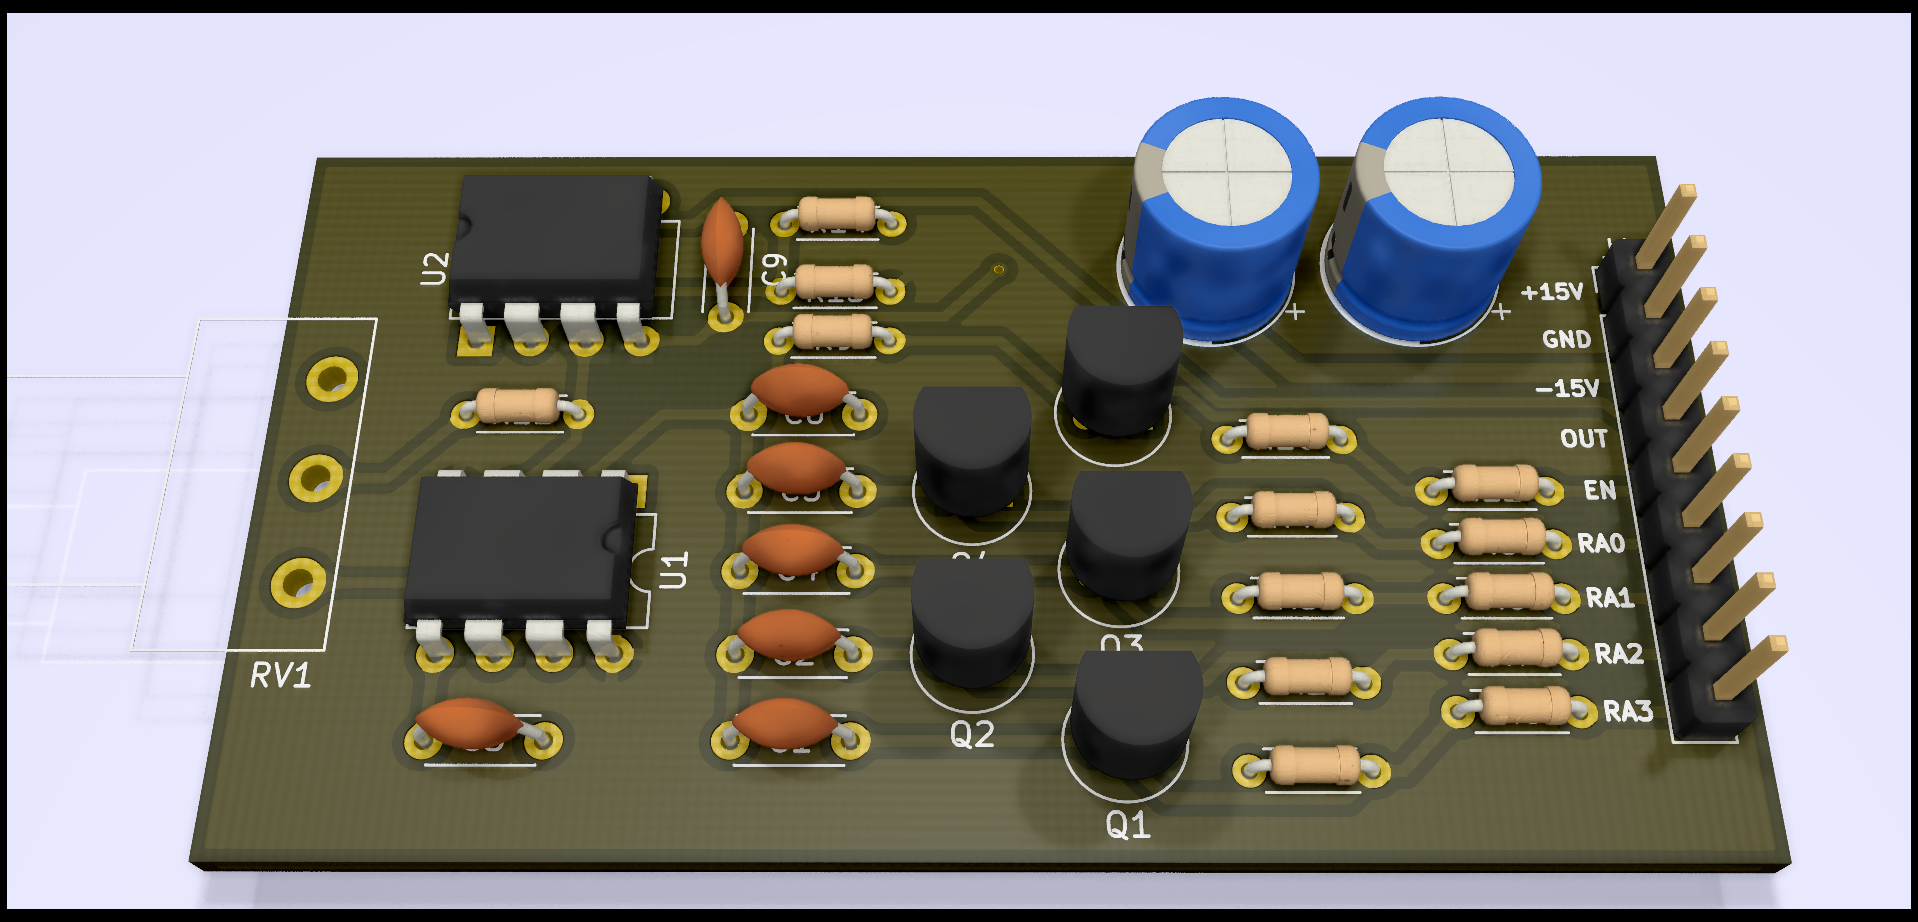
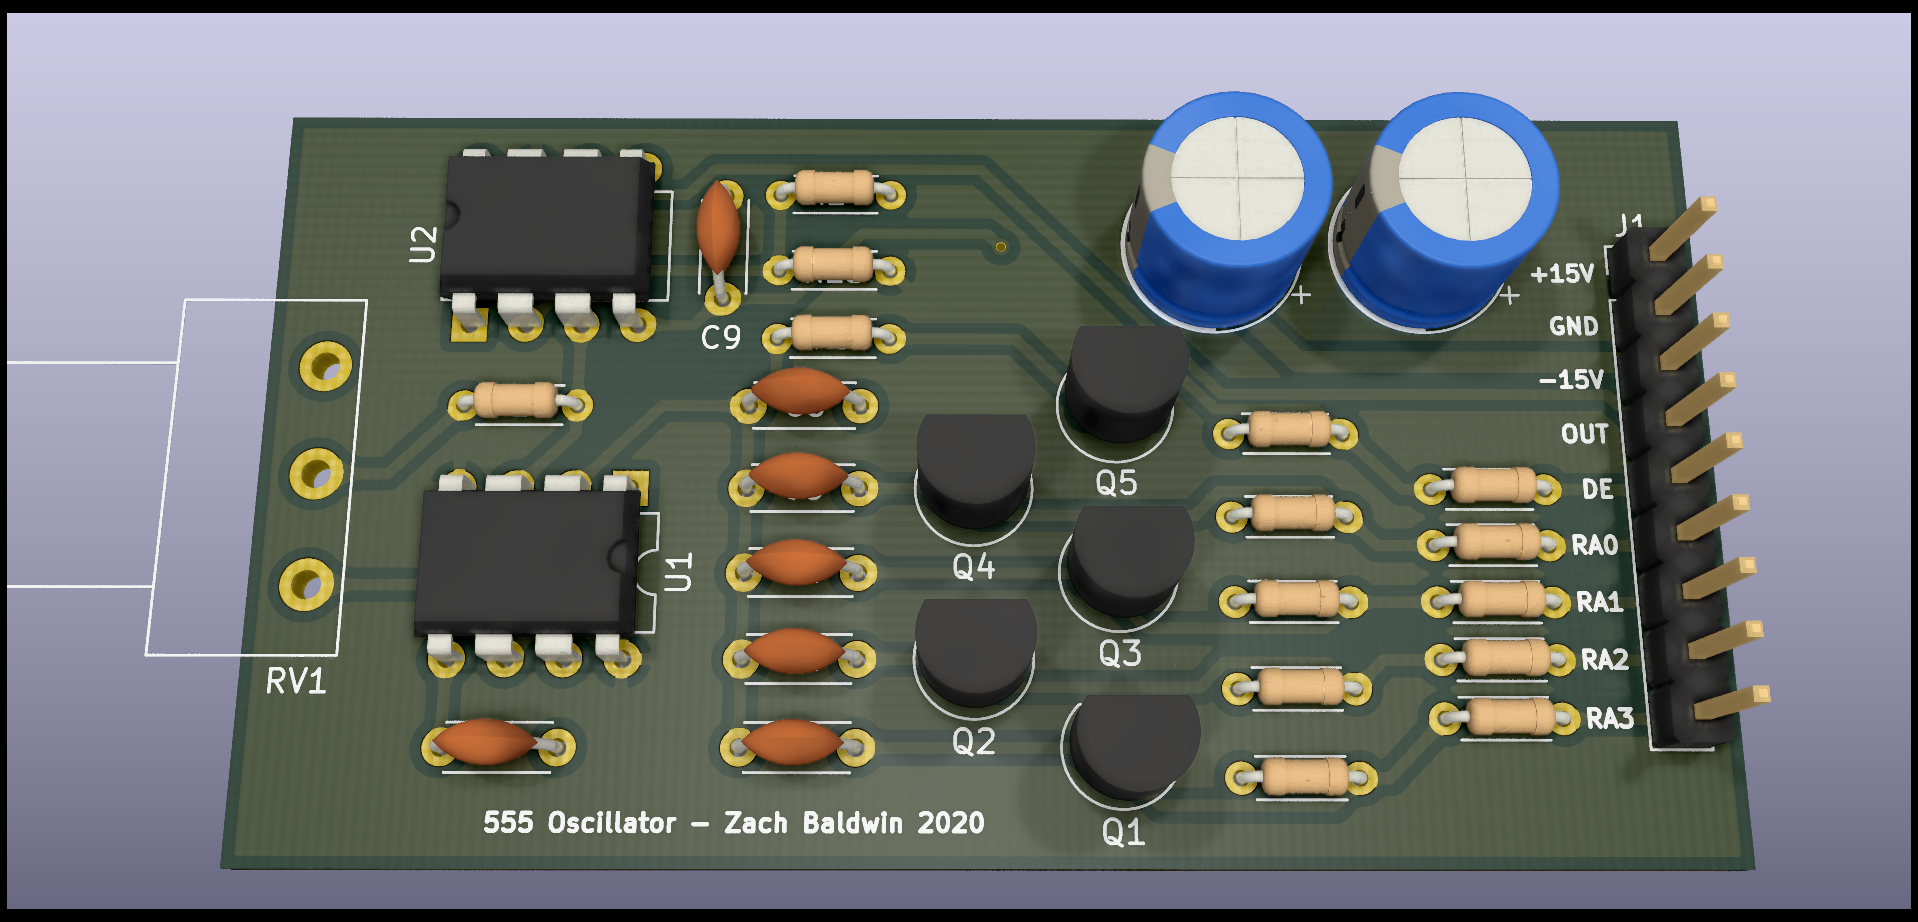
Generate shcematic PDF and board render

diff --git a/README.md b/README.md
@@ -1,20 +1,20 @@
 # 555 Synth Module
-A single oscillator, multiple-range squarewave generator for use in panel-mount synthesizers
+A single oscillator, multiple-range square wave generator for use in panel-mount synthesizers
 
 ![A picture of the oscillator board, with some cool RTX because why not?](./output/555SynthModule.png)
 
 ## Interface
 The main form of user interface with the device is via the potentiometer at the left of the board. This is used for tuning in the currently specified oscillator range. There are five control signals that can also be used (or left floating):
-- `EN` - Enables oscillator
+- `DE` - Disables oscillator (on when input left floating)
 - `RA[0..3]` - Range selection inputs, changes the capacitance on the 555 oscillator
 - `OUT` - The output square wave, uses the 741 op-amp to swing this output from about -14.1V to 14.1V.
 
 ### Power
-In terms of power supply, I don't see any reason that you could not run this off ±12V (for example in a eurorack device).   
+In terms of power supply, I don't see any reason that you could not run this off ±12V (for example in a euro rack device).   
 If you do not have a dual rail supply, you can omit the op-amp and just jumper pins 3 and 6 in its location to directly connect the 555's output to the `OUT` pin.
 
 ## Schematic
-The schematic is realtively straight forward, just a 555 oscillator with a 741 op-amp to make the output swing both positive and negative. The choice of op-amp is not particularly important, as it is only acting as a comparator to increase the output voltage range of the board.   
+The schematic is relatively straight forward, just a 555 oscillator with a 741 op-amp to make the output swing both positive and negative. The choice of op-amp is not particularly important, as it is only acting as a comparator to increase the output voltage range of the board.   
 
 ## Board
 The board is designed to have a single (panel mount) pot at one end of the board. This supports the board. At the other end is the connector for power, the output, enable, and range selection. A note about assembly: the ICs are facing opposite directions!
